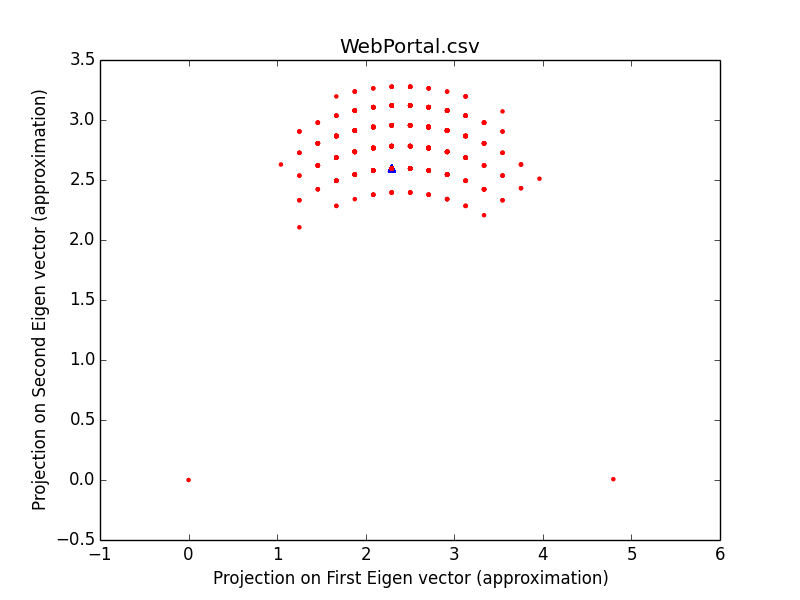
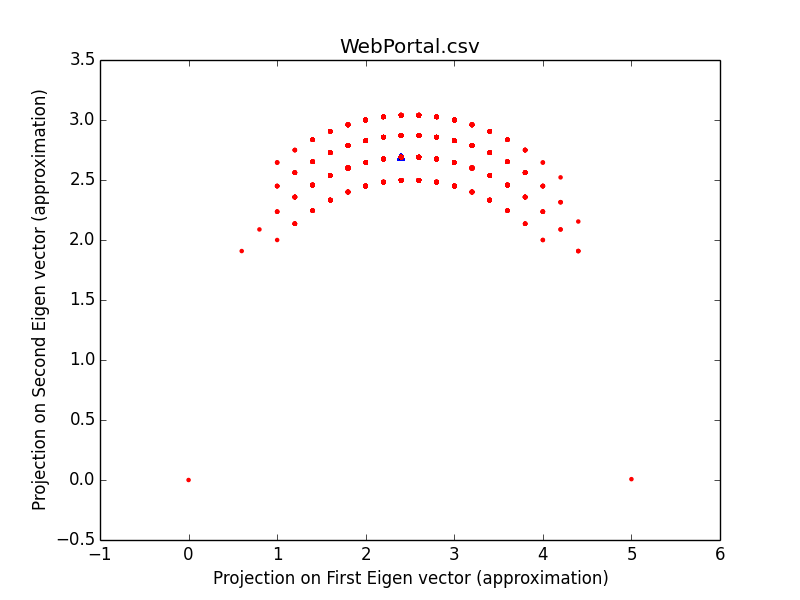
push

Changed region(s): [[0.375, 0.18, 0.6875, 0.36], [0.3438, 0.24, 0.375, 0.3]]

diff --git a/Problems/CPM/ExtraDiagrams/script.py b/Problems/CPM/ExtraDiagrams/script.py
@@ -69,19 +69,22 @@ def project(solutions, distance=euclidean_distance):
 def generate_invalid_solutions(valid_solutions):
     return_solutions = []
     number_of_columns = len(valid_solutions[0].data)
-    number_of_solutions = 10 * len(valid_solutions)
+    number_of_solutions = 100 * len(valid_solutions)
     for i in xrange(number_of_solutions):
         while True:
             from random import randint
             temp = [randint(0, 1) for _ in xrange(number_of_columns)]
-            print temp
             validity = True
             for vs in valid_solutions:
-                score = [0 if i == j else 1 for i, j in zip(vs.data, temp)]
+                # print vs.data, temp
+                score = sum([0 if i == j else 1 for i, j in zip(vs.data, temp)])
+                print score
                 if score == 0:
+                    print ".",
                     validity = False
                     break
-            if validity is True: break
+
+            if validity is True: print ">> ";print temp;raw_input();break
         return_solutions.append(SolutionContainer(temp))
     return return_solutions
 
@@ -92,7 +95,10 @@ def generate_graphs(filename):
 
     valid_configurations = [SolutionContainer([1 if x == "Y" else 0 for x in c.split(",")[:-1]], True) for c in content]
 
-    invalid_configurations = generate_invalid_solutions(valid_configurations)
+    # invalid_configurations = generate_invalid_solutions(valid_configurations)
+
+    from random import randint
+    invalid_configurations = [SolutionContainer([randint(0, 1) for _ in xrange(number_of_columns)]) for _ in xrange(100 * len(content))]
 
     all_content = valid_configurations + invalid_configurations
 
